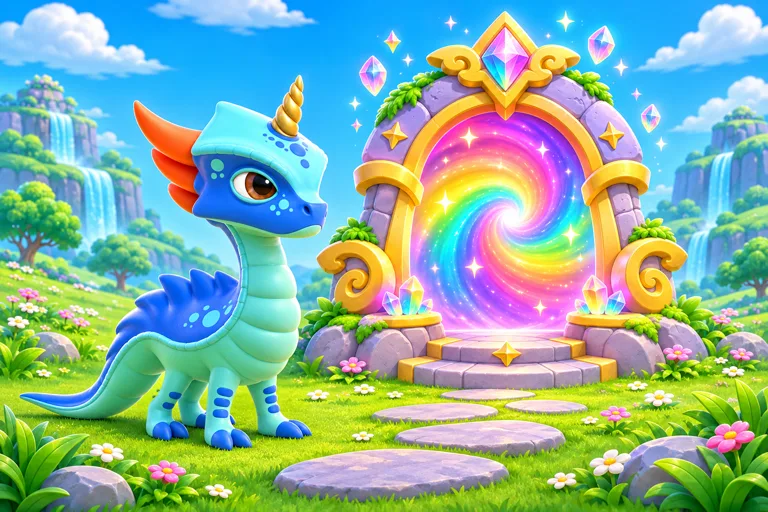
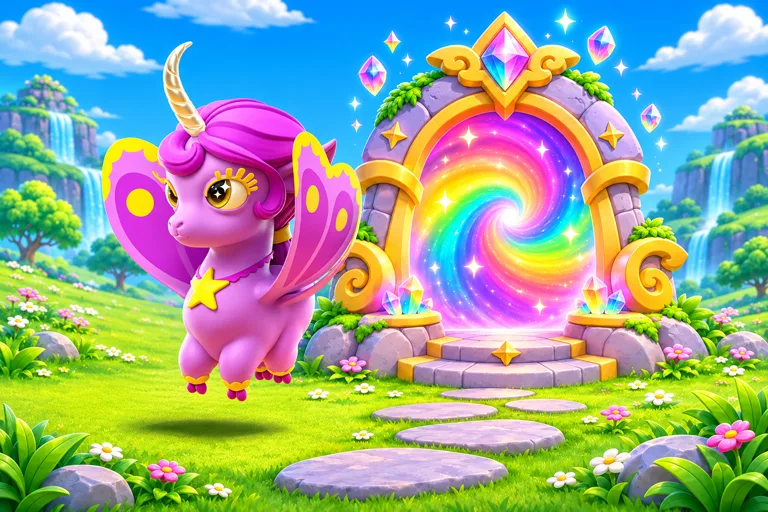
Feature distinct Yunipals across monster action cards

diff --git a/apps/yunipals-home-web/src/pages/boosters/MonsterActionCards.tsx b/apps/yunipals-home-web/src/pages/boosters/MonsterActionCards.tsx
@@ -32,7 +32,7 @@ export function MonsterActionCards({
       action: "Explore grading",
       href: `/grading?card=${tokenId}`,
       image: "grading",
-      alt: "Yunidragon stands beside the crystal-crowned rainbow portal."
+      alt: "Purple Yunifairy hovers beside the crystal-crowned rainbow portal."
     },
     {
       visible: true,
@@ -41,7 +41,7 @@ export function MonsterActionCards({
       action: "View card history",
       href: `/grading/cards/${tokenId}`,
       image: "history",
-      alt: "An enchanted scrapbook displays original and rainbow Yunidragon artwork."
+      alt: "An enchanted scrapbook displays blue and red Yuniturtle artwork."
     }
   ].filter((card) => card.visible);
 
